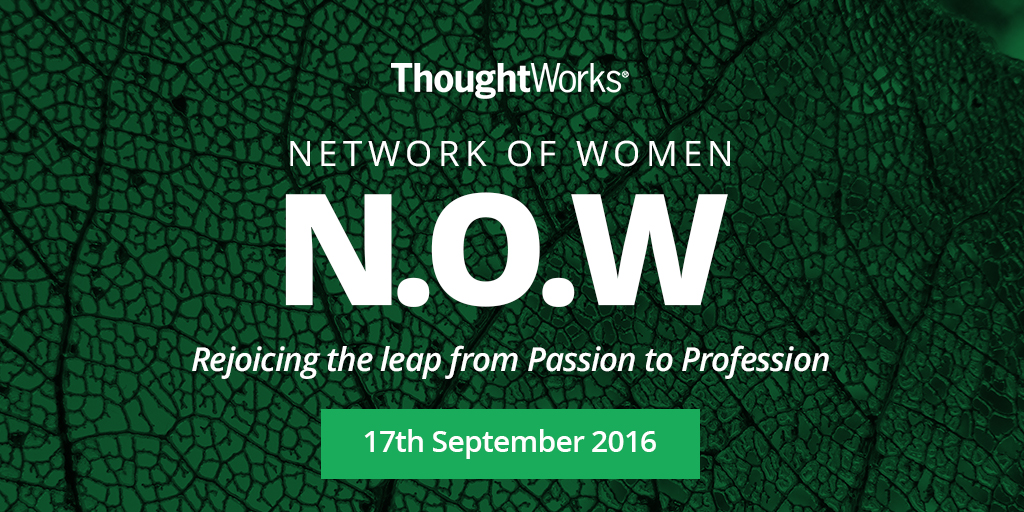
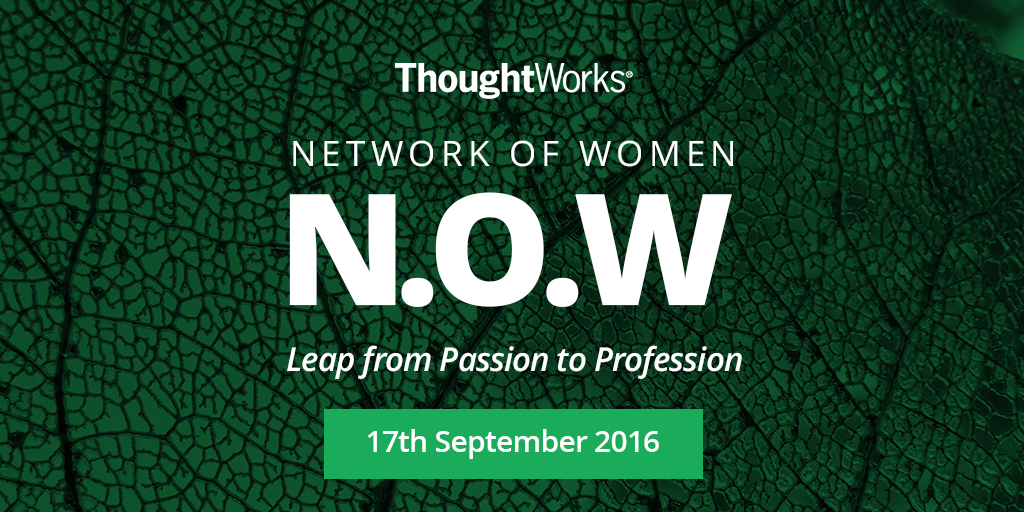
Adding reg and keynote in Agenda Changed theme name

diff --git a/index.html b/index.html
@@ -48,7 +48,7 @@
 
         <div class="row countdown">
             <div class="small-8 small-offset-2 large-8 large-offset-2 columns date">
-                <h3 style="color:white;">Rejoicing the leap from Passion to Profession</h3>
+                <h3 style="color:white;">Leap from Passion to Profession</h3>
                 <br>
                 <p style="color:white;">2<sup>nd</sup> Episode</p>
                 <p style="color:white; text-align: center;">-------------------------------</p>
@@ -62,7 +62,7 @@
         <div class="row" data-bottom="transform:translateY(-5em)" data--100-bottom="transform:translateY(0)">
             <div class="large-12 columns social">
                 <a rel="nofollow" href="https://www.facebook.com/sharer/sharer.php?u=http://thoughtworks-bangalore.github.io/NOW/&t=now" title="Share on Facebook" onclick="ga('send', 'event', 'social', 'email')"><i class="icon-facebook-2"></i></a>
-                <a rel="nofollow" href="https://twitter.com/intent/tweet?text=Excited+to+hear+from+Women+rejoicing+a+leap+from+Passion+to+Profession+at&hashtags=ThoughtWorksNOW&url=http%3A%2F%2Fthoughtworks-bangalore%2Egithub%2Eio%2FNOW" target="_blank" title="Tweet hashtag #now"
+                <a rel="nofollow" href="https://twitter.com/intent/tweet?text=Excited+to+hear+from+Women+speaking+about+Leap+from+Passion+to+Profession+at&hashtags=ThoughtWorksNOW&url=http%3A%2F%2Fthoughtworks-bangalore%2Egithub%2Eio%2FNOW" target="_blank" title="Tweet hashtag #now"
                     onclick="ga('send', 'event', 'social', 'twitter')"><i class="icon-twitter-2"></i></a>
                 <a rel="nofollow" href="mailto:now@thoughtworks.com" title="Email us" onclick="ga('send', 'event', 'social', 'email')"><i class="icon-mail"></i></a>
             </div>
@@ -91,6 +91,26 @@
 
         <div class="timings">
 
+            <div class="row">
+                <div class="large-4 columns time" id="agenda-1" data-bottom="transform:rotateX(90deg) scale(0);opacity:0" data--200-bottom="transform:rotateX(0) scale(1);opacity:1">
+                    <p>
+                        9:00 - 9.30 AM
+                    </p>
+                </div>
+                <div class="large-8 columns summary" data-anchor-target="#agenda-1" data-bottom="transform:rotateX(90deg) scale(0);opacity:0" data--200-bottom="transform:rotateX(0) scale(1);opacity:1">
+                    <p>Registrations</p>
+                </div>
+            </div>
+            <div class="row">
+                <div class="large-4 columns time" id="agenda-1" data-bottom="transform:rotateX(90deg) scale(0);opacity:0" data--200-bottom="transform:rotateX(0) scale(1);opacity:1">
+                    <p>
+                        9:30 - 10.00 AM
+                    </p>
+                </div>
+                <div class="large-8 columns summary" data-anchor-target="#agenda-1" data-bottom="transform:rotateX(90deg) scale(0);opacity:0" data--200-bottom="transform:rotateX(0) scale(1);opacity:1">
+                    <p>Keynote</p>
+                </div>
+            </div>
             <div class="row">
                 <div class="large-4 columns time" id="agenda-1" data-bottom="transform:rotateX(90deg) scale(0);opacity:0" data--200-bottom="transform:rotateX(0) scale(1);opacity:1">
                     <p>
@@ -203,7 +223,7 @@
             <div class="row">
                 <div class="large-4 columns time" id="agenda-4" data-bottom="transform:rotateX(90deg) scale(0);opacity:0" data--200-bottom="transform:rotateX(0) scale(1);opacity:1">
                     <p>
-                        3:45 - 5:00 PM
+                        3:45 PM onwards
                     </p>
                 </div>
                 <div class="large-8 columns summary" data-anchor-target="#agenda-4" data-bottom="transform:rotateX(90deg) scale(0);opacity:0" data--200-bottom="transform:rotateX(0) scale(1);opacity:1">
